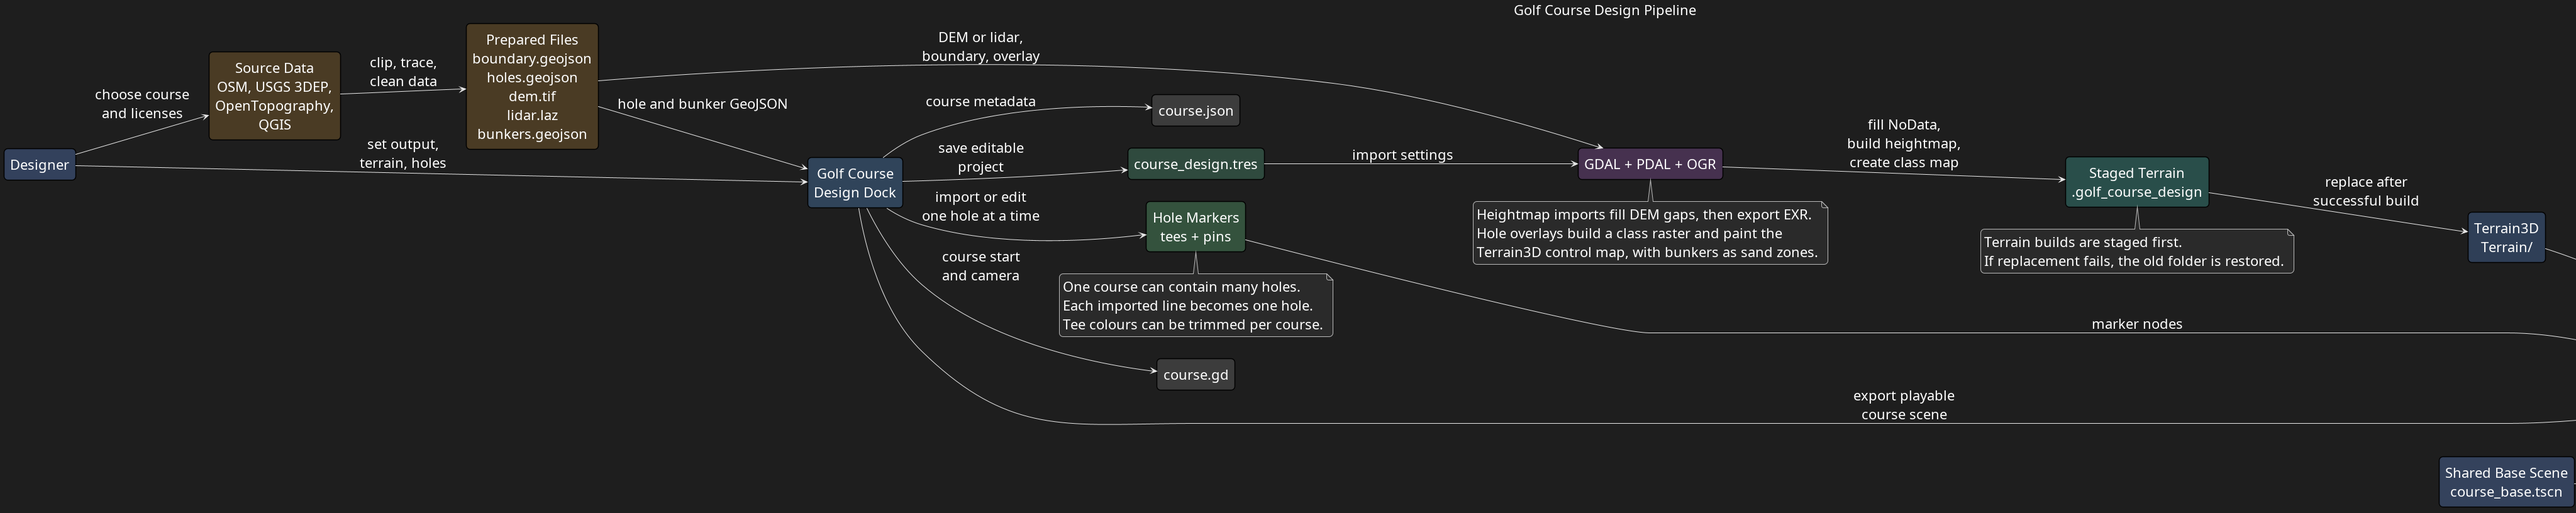
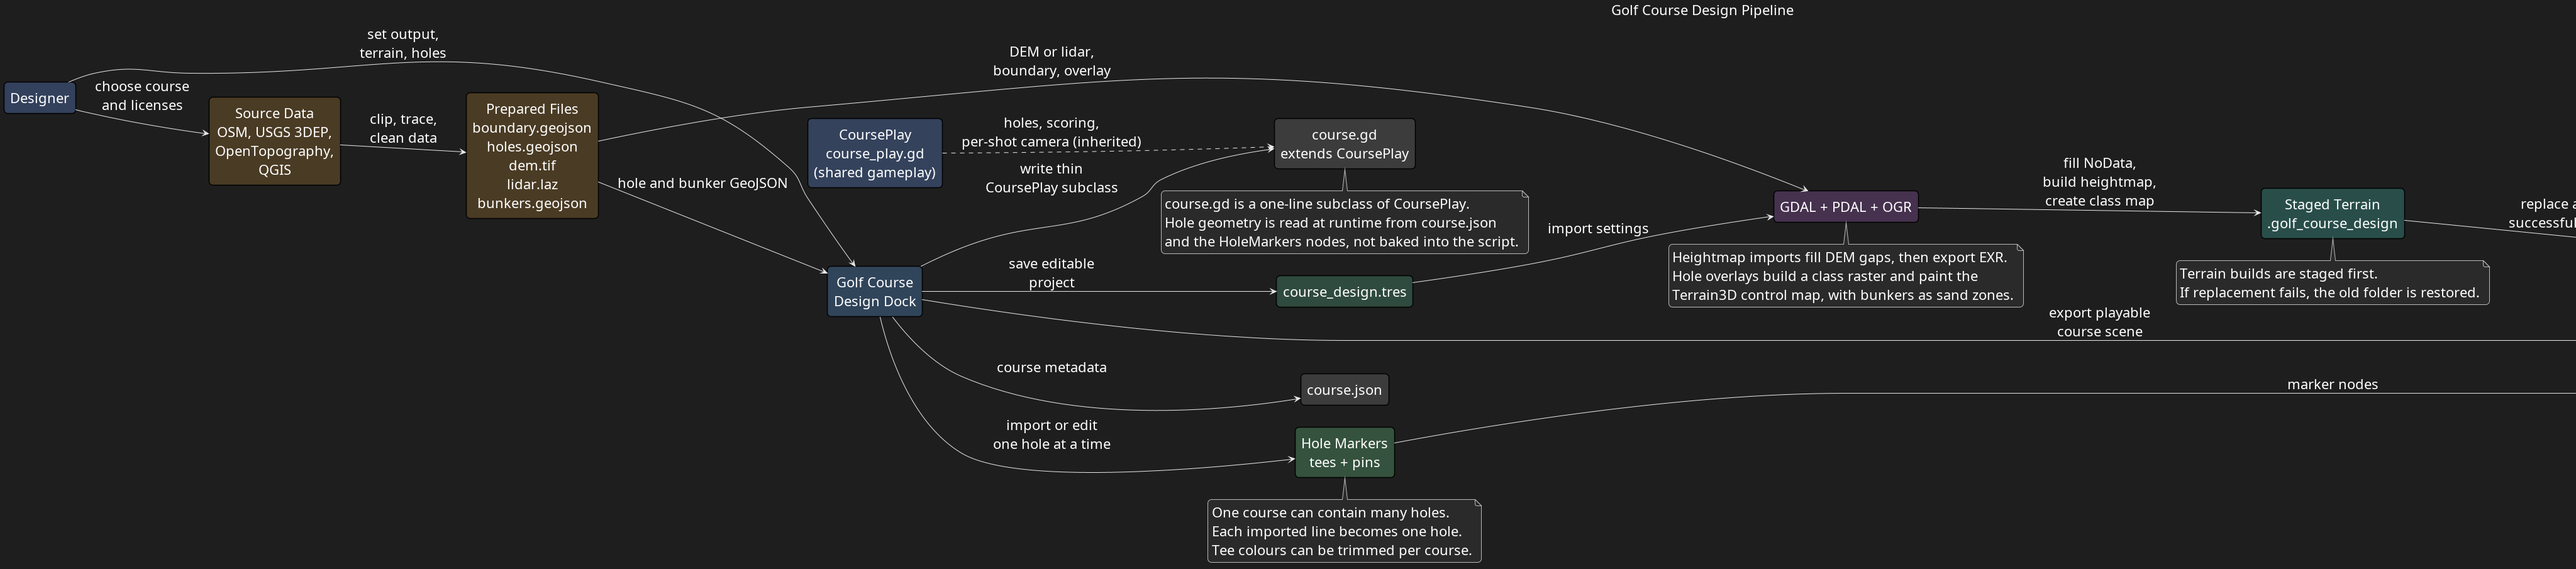
docs: updating documentation, and diagrams. Log update.

diff --git a/addons/golf_course_design/README.md b/addons/golf_course_design/README.md
@@ -279,7 +279,7 @@ For real courses, use QGIS or the Godot 3D view as the reference while adjusting
 7. Use Terrain3D tools to paint, sculpt, or repair terrain details.
 8. Run the game and select the course from the course selector.
 
-The exported scene inherits `res://Courses/_shared/course_base.tscn`, so the course starts from the shared player, camera, sky, and terrain setup. The generated `course.gd` positions the player and camera from the first enabled tee and aims them toward the hole.
+The exported scene inherits `res://Courses/_shared/course_base.tscn`, so the course starts from the shared player, camera, sky, and terrain setup. The generated `course.gd` is a one-line subclass of `CoursePlay` (`res://Courses/_shared/course_play.gd`); it inherits all gameplay — hole management, stroke counting, scoring, the pin-distance indicator, and per-shot camera framing. Hole geometry is read at runtime from the generated `course.json` (`Hole Info`) and the `HoleMarkers` nodes in `course.tscn`, so each exported course stays in sync with the shared gameplay logic instead of cloning it.
 
 ## What Gets Written To Disk
 A finished course folder usually looks like this:
@@ -297,7 +297,7 @@ res://Courses/UserCourses/Airways/
 
 Each file has a different job:
 
-- `course.gd` is the generated course script that sets the course start and camera direction.
+- `course.gd` is the generated course script: a one-line subclass of `CoursePlay` (`Courses/_shared/course_play.gd`) that inherits all gameplay from the shared script.
 - `course.tscn` is one playable Godot scene for the whole course.
 - `course.json` is the course metadata the current loader expects.
 - `Terrain/` contains the Terrain3D region files.
